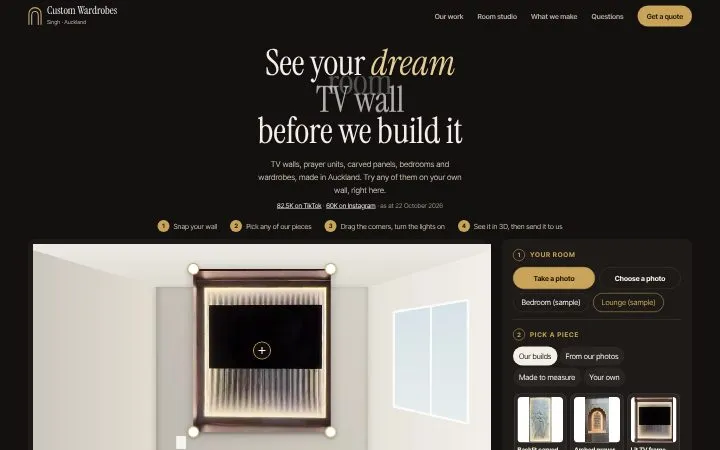
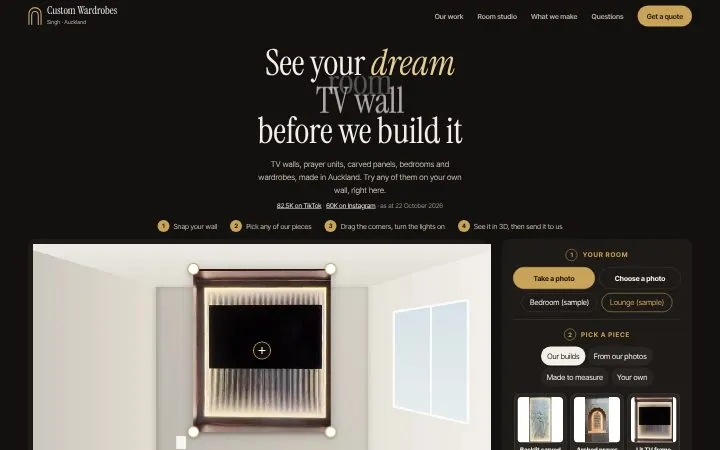
Room studio on phones: no overlapping text, pieces fit any photo, centred
- Only the picture stays pinned on phones, on a solid background; the
  lighting switch, View in 3D and piece names sit in their own row
  under it, so nothing shows through or sits on top of the panel
- New pieces always start fully inside the photo, tall or wide, at true
  proportions; 'Fit again' snaps a piece back to a good starting size
- Studio headings, rows, chips, notes and actions are centred
- Concept headers are solid, so nothing shows through them

Claude-Session: https://claude.ai/code/session_01WqnGcpj9xHEybvX22jA6rA

diff --git a/assets/studio.js b/assets/studio.js
@@ -75,18 +75,18 @@
   function mount(root) {
     root.classList.add("st");
     root.innerHTML =
-      '<div class="st-view"><div class="st-frame"><div class="st-stage" aria-label="Your room. Drag the round handles to fit the selected piece.">' +
+      '<div class="st-left"><div class="st-view"><div class="st-frame"><div class="st-stage" aria-label="Your room. Drag the round handles to fit the selected piece.">' +
       '<canvas class="st-base" aria-hidden="true"></canvas><canvas class="st-gl" aria-hidden="true"></canvas>' +
       '<button class="st-h" type="button" aria-label="Top left corner of the selected piece. Use the arrow keys to move it."></button>' +
       '<button class="st-h" type="button" aria-label="Top right corner of the selected piece. Use the arrow keys to move it."></button>' +
       '<button class="st-h" type="button" aria-label="Bottom right corner of the selected piece. Use the arrow keys to move it."></button>' +
       '<button class="st-h" type="button" aria-label="Bottom left corner of the selected piece. Use the arrow keys to move it."></button>' +
       '<button class="st-grip" type="button" aria-label="Move the selected piece. Drag it, or use the arrow keys."></button>' +
-      '</div></div>' +
-      '<div class="st-bar"><div class="st-lights" role="group" aria-label="Lighting">' +
+      '</div></div></div>' +
+      '<div class="st-under"><div class="st-bar"><div class="st-lights" role="group" aria-label="Lighting">' +
       '<button type="button" data-l="day" aria-pressed="true">Daylight</button><button type="button" data-l="on" aria-pressed="false">Lights on</button><button type="button" data-l="off" aria-pressed="false">Lights off</button></div>' +
       '<button type="button" class="st-btn st-3d" data-a="3d">View in 3D</button></div>' +
-      '<div class="st-layers" aria-label="Pieces in your room"></div><p class="st-status" role="status" aria-live="polite"></p></div>' +
+      '<div class="st-layers" aria-label="Pieces in your room"></div><p class="st-status" role="status" aria-live="polite"></p></div></div>' +
       '<div class="st-panel">' +
       '<section class="st-step"><h2><span>1</span>Your room</h2><div class="st-room">' +
       '<label class="st-btn st-primary st-file">Take a photo<input type="file" accept="image/*" capture="environment" aria-label="Take a photo of your room"></label>' +
@@ -103,6 +103,7 @@
       '<label>Warmth <input type="range" min="-100" max="100" value="0" data-k="warmth"></label>' +
       '<label>Shadow <input type="range" min="0" max="100" value="60" data-k="shadow"></label></div>' +
       '<div class="st-actions"><button class="st-btn" type="button" data-a="compare" aria-pressed="false">Hide pieces</button>' +
+      '<button class="st-btn" type="button" data-a="fit">Fit again</button>' +
       '<button class="st-btn" type="button" data-a="remove">Remove piece</button>' +
       '<button class="st-btn" type="button" data-a="save">Save image</button>' +
       '<button class="st-btn st-primary" type="button" data-a="ask">Ask about this</button></div></section>' +
@@ -197,7 +198,7 @@
     var cssW = 0, cssH = 0, raf = 0;
     function layout() {
       var maxW = stage.parentElement.clientWidth || 600;
-      var maxH = Math.max(220, innerHeight * (matchMedia("(max-width: 1080px)").matches ? 0.46 : 0.72));
+      var maxH = Math.max(200, innerHeight * (matchMedia("(max-width: 1080px)").matches ? 0.4 : 0.72));
       var ar = state.pw / state.ph;
       cssW = Math.min(maxW, maxH * ar); cssH = cssW / ar;
       stage.style.width = cssW + "px"; stage.style.height = cssH + "px";
@@ -239,12 +240,19 @@
       var wallTop = state.own ? 0.2 : state.room.wall[0][1], floor = state.own ? 0.8 : state.room.wall[3][1];
       var perMm = (floor - wallTop) / 2400, a = state.ph / state.pw, h, w;
       if (mm) { h = mm[1] * perMm; w = mm[0] * perMm * a; } else { h = (floor - wallTop) * 0.62; w = h * aspect * a; }
-      var maxW = state.own ? 0.85 : 0.72; if (w > maxW) { h *= maxW / w; w = maxW; }
+      // keep it inside the photo with a margin: at most 84% wide and 70% tall (true proportions kept)
+      var k = Math.min(1, 0.84 / w, 0.7 / h); w *= k; h *= k;
+      var bottom = Math.min(0.95, floor - (lift || 0) * perMm * k), top = bottom - h;
+      if (top < 0.05) { top = 0.05; bottom = top + h; }
       // small pieces start beside what is already there; wide ones start centred so they stay in frame
       var n = state.items.length, side = n && w < 0.4 ? (n % 2 ? -1 : 1) * Math.min(0.25, w / 2 + 0.06) : 0;
-      var bottom = floor - (lift || 0) * perMm, cx = 0.5 + side;
-      cx = Math.min(1 - w / 2, Math.max(w / 2, cx));
-      return [[cx - w / 2, bottom - h], [cx + w / 2, bottom - h], [cx + w / 2, bottom], [cx - w / 2, bottom]];
+      var cx = Math.min(1 - w / 2 - 0.03, Math.max(w / 2 + 0.03, 0.5 + side));
+      return [[cx - w / 2, top], [cx + w / 2, top], [cx + w / 2, bottom], [cx - w / 2, bottom]];
+    }
+    function fitAgain() {
+      var it = state.items[state.active]; if (!it) return;
+      it.quad = startQuad(it.design ? it.design.size(it.opts.count) : null, it.design && it.design.lift, it.aspect);
+      it.scale = 100; syncSliders(); schedule(); say(it.label + " fitted again. Drag the corners to fine-tune.");
     }
     function addItem(it) {
       if (state.items.length >= MAX_ITEMS) state.items.shift();
@@ -526,7 +534,7 @@
       var W = cutImg.naturalWidth, H = cutImg.naturalHeight;
       var flat = flatten(cutImg, cutQuad.map(function (p) { return [p[0] * W, p[1] * H]; }));
       closeCutter(); addCut(flat, cutLabel);
-      root.querySelector(".st-view").scrollIntoView({ block: "center" });
+      root.querySelector(".st-view").scrollIntoView({ block: "start" });
     });
     cut.addEventListener("keydown", function (e) { if (e.key === "Escape") closeCutter(); });
 
@@ -564,6 +572,7 @@
       compare.textContent = state.hide ? "Show pieces" : "Hide pieces"; schedule();
     });
     root.querySelector('[data-a="remove"]').addEventListener("click", removeActive);
+    root.querySelector('[data-a="fit"]').addEventListener("click", fitAgain);
     function describe() { return state.items.map(function (it) { return it.kind === "design" ? D.describe(it.design, it.opts) : it.label + " (cut from a photo)"; }).join("; "); }
     root.querySelector('[data-a="save"]').addEventListener("click", function () {
       var W = state.pw, H = state.ph, out = document.createElement("canvas"); out.width = W; out.height = H;

diff --git a/assets/studio.css b/assets/studio.css
@@ -9,7 +9,8 @@
 .st [hidden] { display: none !important; }
 .st button, .st input { font: inherit; color: inherit; }
 .st :focus-visible { outline: 2px solid var(--st-accent); outline-offset: 3px; }
-.st-view { position: sticky; top: calc(var(--header, 72px) + 12px); z-index: 3; min-width: 0; }
+.st-left { position: sticky; top: calc(var(--header, 72px) + 12px); z-index: 3; min-width: 0; }
+.st-view { min-width: 0; }
 .st-frame { display: grid; place-items: center; background: var(--st-bg); border-radius: var(--st-radius); padding: 10px; min-height: 240px; }
 .st-stage { position: relative; user-select: none; -webkit-user-select: none; max-width: 100%; }
 .st-stage canvas { position: absolute; inset: 0; width: 100%; height: 100%; }
@@ -18,12 +19,12 @@
 .st-h::before { content: ""; position: absolute; inset: 12px; border-radius: 50%; background: #fff; box-shadow: 0 0 0 2px var(--st-accent), 0 2px 8px rgba(0,0,0,.4); }
 .st-grip::before { content: ""; position: absolute; inset: 6px; border-radius: 50%; background: rgba(20,15,11,.8); box-shadow: 0 0 0 2px var(--st-accent); }
 .st-grip::after { content: ""; position: absolute; inset: 15px; background: linear-gradient(#fff, #fff) center / 2px 100% no-repeat, linear-gradient(#fff, #fff) center / 100% 2px no-repeat; }
-.st-bar { display: flex; flex-wrap: wrap; gap: 8px; align-items: center; justify-content: space-between; margin-top: 10px; }
+.st-bar { display: flex; flex-wrap: wrap; gap: 8px; align-items: center; justify-content: center; margin-top: 12px; }
 .st-lights { display: inline-flex; padding: 3px; border-radius: 999px; border: 1px solid var(--st-line); }
 .st-lights button { min-height: 38px; padding: 0 14px; border-radius: 999px; border: 0; background: none; cursor: pointer; font-size: 13px; font-weight: 700; color: var(--st-ink); }
 .st-lights button[aria-pressed="true"] { background: var(--st-accent); color: var(--st-accent-ink); }
 .st .st-3d { min-height: 42px; }
-.st-layers { display: flex; flex-wrap: wrap; gap: 6px; align-items: center; margin-top: 10px; min-height: 36px; }
+.st-layers { display: flex; flex-wrap: wrap; gap: 6px; align-items: center; justify-content: center; margin-top: 10px; min-height: 36px; }
 .st-layer { min-height: 36px; padding: 0 14px; border-radius: 999px; border: 1px solid var(--st-line); background: none; cursor: pointer; font-size: 13px; font-weight: 600; }
 .st-layer[aria-pressed="true"] { background: var(--st-accent); color: var(--st-accent-ink); border-color: var(--st-accent); }
 .st-layer-hint { font-size: 12px; color: var(--st-muted); }
@@ -86,7 +87,9 @@
 html.st-locked { overflow: hidden; }
 @media (max-width: 1080px) {
   .st { grid-template-columns: minmax(0, 1fr); }
-  .st-view { top: var(--header, 72px); background: inherit; }
+  /* on phones only the picture stays pinned, on a solid background, so nothing shows through it */
+  .st-left { display: contents; }
+  .st-view { position: sticky; top: var(--header, 72px); z-index: 4; background: var(--st-bg); padding: 6px 0; margin-inline: -6px; padding-inline: 6px; border-radius: 0 0 var(--st-radius) var(--st-radius); }
   .st-frame { padding: 6px; min-height: 0; }
   .st-status:empty { display: none; }
 }
@@ -114,3 +117,12 @@ html.st-locked { overflow: hidden; }
 .st3d-stage canvas { display: block; width: 100%; height: 100%; cursor: grab; }
 .st3d-note { margin: 0; padding: 8px 16px calc(10px + env(safe-area-inset-bottom)); font-size: 12px; color: #a99b88; text-align: center; }
 .st3d :focus-visible { outline: 2px solid #c9a35a; outline-offset: 3px; }
+
+/* centred, as the owner requires everywhere */
+.st-step h2 { justify-content: center; }
+.st-step h3, .st-tip, .st-note, .st-status { text-align: center; }
+.st-tabs, .st-row, .st-rooms { justify-content: center; }
+.st-count { justify-content: center; }
+.st-count h3 { text-align: center; }
+.st-actions .st-primary:last-child { grid-column: 1 / -1; }
+.st-card { text-align: center; justify-items: center; }

diff --git a/concepts/designs/01-after-dark/index.html b/concepts/designs/01-after-dark/index.html
@@ -13,7 +13,7 @@
 <link rel="preload" as="style" href="https://fonts.googleapis.com/css2?family=Bodoni+Moda:ital,opsz,wght@0,6..96,400;1,6..96,400&family=Inter:wght@400;500;600;700&display=optional" onload="this.onload=null;this.rel='stylesheet'">
 <noscript><link rel="stylesheet" href="https://fonts.googleapis.com/css2?family=Bodoni+Moda:ital,opsz,wght@0,6..96,400;1,6..96,400&family=Inter:wght@400;500;600;700&display=optional"></noscript>
 <link rel="stylesheet" href="/assets/cw-common.css?v=2">
-<link rel="stylesheet" href="/assets/studio.css?v=2">
+<link rel="stylesheet" href="/assets/studio.css?v=3">
 <script>(function(d){d.classList.add("js");window.CW_BASE="/";if(!matchMedia("(prefers-reduced-motion: reduce)").matches){d.classList.add("motion");setTimeout(function(){if(!window.CW_MOTION){d.classList.remove("motion");d.classList.add("motion-off");}},3000);}})(document.documentElement);</script>
 <style>
 
@@ -25,7 +25,7 @@ img,video{display:block;max-width:100%} a{color:inherit} :focus-visible{outline:
 h1,h2,h3{font-family:var(--serif);font-weight:400;margin:0;letter-spacing:-.01em}
 h2{font-size:clamp(34px,4.4vw,60px);line-height:1.05} .lede{color:var(--c-muted);max-width:56ch;margin:0 auto;font-size:clamp(16px,1.3vw,18px)}
 .sec-head{text-align:center;display:grid;gap:14px;margin-bottom:clamp(36px,5vw,64px)}
-.top{position:sticky;top:0;z-index:40;height:var(--header);background:rgba(10,8,7,.94);border-bottom:1px solid transparent}
+.top{position:sticky;top:0;z-index:40;height:var(--header);background:#0a0807;border-bottom:1px solid transparent}
 .top.scrolled{border-color:var(--c-line)} .top .wrap{height:100%;display:flex;align-items:center;justify-content:space-between;gap:16px}
 .brand{display:inline-flex;align-items:center;gap:12px;text-decoration:none}.brand b{display:block;font:400 21px/1 var(--serif)}.brand small{display:block;font-size:10.5px;letter-spacing:.18em;text-transform:uppercase;color:var(--c-muted);margin-top:6px}
 .nav{display:flex;align-items:center;gap:clamp(14px,2.2vw,32px)} .nav a{text-decoration:none;font-size:14px;font-weight:500;color:var(--c-muted)} .nav a:hover{color:var(--c-ink)}
@@ -241,7 +241,7 @@ ol.steps,ul.steps{justify-content:center}
 <script src="/assets/content.js?v=3"></script>
 <script src="/assets/projects.js?v=3"></script>
 <script src="/assets/designs.js?v=4" defer></script>
-<script src="/assets/studio.js?v=3" defer></script>
+<script src="/assets/studio.js?v=4" defer></script>
 <script src="/assets/cw-common.js?v=1" defer></script>
 <script src="/assets/cw-motion.js?v=1" defer></script>
 <script src="/concepts/assets/concepts.js?v=2" defer></script>

diff --git a/concepts/designs/04-atelier/index.html b/concepts/designs/04-atelier/index.html
@@ -13,7 +13,7 @@
 <link rel="preload" as="style" href="https://fonts.googleapis.com/css2?family=EB+Garamond:ital,wght@0,400;1,400&family=Jost:wght@400;500&display=swap" onload="this.onload=null;this.rel='stylesheet'">
 <noscript><link rel="stylesheet" href="https://fonts.googleapis.com/css2?family=EB+Garamond:ital,wght@0,400;1,400&family=Jost:wght@400;500&display=swap"></noscript>
 <link rel="stylesheet" href="/assets/cw-common.css?v=2">
-<link rel="stylesheet" href="/assets/studio.css?v=2">
+<link rel="stylesheet" href="/assets/studio.css?v=3">
 <script>(function(d){d.classList.add("js");window.CW_BASE="/";if(!matchMedia("(prefers-reduced-motion: reduce)").matches){d.classList.add("motion");setTimeout(function(){if(!window.CW_MOTION){d.classList.remove("motion");d.classList.add("motion-off");}},3000);}})(document.documentElement);</script>
 <style>
 
@@ -26,7 +26,7 @@ h1,h2,h3{font-family:var(--serif);font-weight:400;margin:0;letter-spacing:-.01em
 .lede{color:var(--c-muted);max-width:54ch;margin:0 auto;font-size:clamp(17px,1.35vw,19px)}
 .sec-head{text-align:center;display:grid;gap:14px;margin-bottom:clamp(36px,5vw,64px)}
 section{padding-block:clamp(80px,10vw,140px)}
-.top{position:sticky;top:0;z-index:40;height:var(--header);background:rgba(250,248,244,.97);border-bottom:1px solid var(--c-line)}
+.top{position:sticky;top:0;z-index:40;height:var(--header);background:#faf8f4;border-bottom:1px solid var(--c-line)}
 .top .wrap{height:100%;display:flex;align-items:center;justify-content:space-between;gap:16px}
 .brand{display:inline-flex;align-items:center;gap:12px;text-decoration:none}.brand b{display:block;font:400 24px/1 var(--serif)}.brand small{display:block;font-size:11px;letter-spacing:.2em;text-transform:uppercase;color:var(--c-muted);margin-top:6px}
 .nav{display:flex;align-items:center;gap:clamp(14px,2.4vw,36px)}.nav a{text-decoration:none;font-size:14px;letter-spacing:.06em;text-transform:uppercase;color:var(--c-muted)}.nav a:hover{color:var(--c-ink)}
@@ -226,7 +226,7 @@ ol.steps,ul.steps{justify-content:center}
 <script src="/assets/content.js?v=3"></script>
 <script src="/assets/projects.js?v=3"></script>
 <script src="/assets/designs.js?v=4" defer></script>
-<script src="/assets/studio.js?v=3" defer></script>
+<script src="/assets/studio.js?v=4" defer></script>
 <script src="/assets/cw-common.js?v=1" defer></script>
 <script src="/assets/cw-motion.js?v=1" defer></script>
 <script src="/concepts/assets/concepts.js?v=2" defer></script>

diff --git a/concepts/designs/03-reels/index.html b/concepts/designs/03-reels/index.html
@@ -14,7 +14,7 @@
 <noscript><link rel="stylesheet" href="https://fonts.googleapis.com/css2?family=Bricolage+Grotesque:opsz,wght@12..96,700&family=Inter:wght@400;600;700&display=swap"></noscript>
 <link rel="preload" as="image" href="/assets/video/hero-media-wall.webp" fetchpriority="high">
 <link rel="stylesheet" href="/assets/cw-common.css?v=2">
-<link rel="stylesheet" href="/assets/studio.css?v=2">
+<link rel="stylesheet" href="/assets/studio.css?v=3">
 <script>(function(d){d.classList.add("js");window.CW_BASE="/";if(!matchMedia("(prefers-reduced-motion: reduce)").matches){d.classList.add("motion");setTimeout(function(){if(!window.CW_MOTION){d.classList.remove("motion");d.classList.add("motion-off");}},3000);}})(document.documentElement);</script>
 <style>
 
@@ -27,7 +27,7 @@ h1,h2,h3{font-family:var(--serif);font-weight:700;margin:0;letter-spacing:-.03em
 .lede{color:var(--c-muted);max-width:52ch;margin:0 auto;font-size:clamp(16px,1.3vw,18px)}
 .sec-head{text-align:center;display:grid;gap:14px;margin-bottom:clamp(32px,5vw,56px)}
 section{padding-block:clamp(72px,10vw,130px)}
-.top{position:sticky;top:0;z-index:40;height:var(--header);background:rgba(13,13,15,.95);border-bottom:1px solid var(--c-line)}
+.top{position:sticky;top:0;z-index:40;height:var(--header);background:#0d0d0f;border-bottom:1px solid var(--c-line)}
 .top .wrap{height:100%;display:flex;align-items:center;justify-content:space-between;gap:16px}
 .brand{display:inline-flex;align-items:center;gap:10px;text-decoration:none}.brand b{display:block;font:700 19px/1 var(--serif);letter-spacing:-.02em}.brand small{display:block;font-size:11px;color:var(--c-muted);margin-top:5px}
 .nav{display:flex;align-items:center;gap:clamp(14px,2vw,28px)}.nav a{text-decoration:none;font-size:14px;font-weight:600;color:var(--c-muted)}.nav a:hover{color:#fff}
@@ -224,7 +224,7 @@ ol.steps,ul.steps{justify-content:center}
 <script src="/assets/content.js?v=3"></script>
 <script src="/assets/projects.js?v=3"></script>
 <script src="/assets/designs.js?v=4" defer></script>
-<script src="/assets/studio.js?v=3" defer></script>
+<script src="/assets/studio.js?v=4" defer></script>
 <script src="/assets/cw-common.js?v=1" defer></script>
 <script src="/assets/cw-motion.js?v=1" defer></script>
 <script src="/concepts/assets/concepts.js?v=2" defer></script>

diff --git a/concepts/designs/02-arch/index.html b/concepts/designs/02-arch/index.html
@@ -13,7 +13,7 @@
 <link rel="preload" as="style" href="https://fonts.googleapis.com/css2?family=Manrope:wght@400;600;700&family=Newsreader:ital,opsz,wght@0,6..72,400;1,6..72,400&display=swap" onload="this.onload=null;this.rel='stylesheet'">
 <noscript><link rel="stylesheet" href="https://fonts.googleapis.com/css2?family=Manrope:wght@400;600;700&family=Newsreader:ital,opsz,wght@0,6..72,400;1,6..72,400&display=swap"></noscript>
 <link rel="stylesheet" href="/assets/cw-common.css?v=2">
-<link rel="stylesheet" href="/assets/studio.css?v=2">
+<link rel="stylesheet" href="/assets/studio.css?v=3">
 <script>(function(d){d.classList.add("js");window.CW_BASE="/";if(!matchMedia("(prefers-reduced-motion: reduce)").matches){d.classList.add("motion");setTimeout(function(){if(!window.CW_MOTION){d.classList.remove("motion");d.classList.add("motion-off");}},3000);}})(document.documentElement);</script>
 <style>
 
@@ -224,7 +224,7 @@ ol.steps,ul.steps{justify-content:center}
 <script src="/assets/content.js?v=3"></script>
 <script src="/assets/projects.js?v=3"></script>
 <script src="/assets/designs.js?v=4" defer></script>
-<script src="/assets/studio.js?v=3" defer></script>
+<script src="/assets/studio.js?v=4" defer></script>
 <script src="/assets/cw-common.js?v=1" defer></script>
 <script src="/assets/cw-motion.js?v=1" defer></script>
 <script src="/concepts/assets/concepts.js?v=2" defer></script>

diff --git a/concepts/designs/05-studio/index.html b/concepts/designs/05-studio/index.html
@@ -13,7 +13,7 @@
 <link rel="preload" as="style" href="https://fonts.googleapis.com/css2?family=Instrument+Serif:ital@0;1&family=Inter+Tight:wght@400;600;700&display=swap" onload="this.onload=null;this.rel='stylesheet'">
 <noscript><link rel="stylesheet" href="https://fonts.googleapis.com/css2?family=Instrument+Serif:ital@0;1&family=Inter+Tight:wght@400;600;700&display=swap"></noscript>
 <link rel="stylesheet" href="/assets/cw-common.css?v=2">
-<link rel="stylesheet" href="/assets/studio.css?v=2">
+<link rel="stylesheet" href="/assets/studio.css?v=3">
 <script>(function(d){d.classList.add("js");window.CW_BASE="/";if(!matchMedia("(prefers-reduced-motion: reduce)").matches){d.classList.add("motion");setTimeout(function(){if(!window.CW_MOTION){d.classList.remove("motion");d.classList.add("motion-off");}},3000);}})(document.documentElement);</script>
 <style>
 
@@ -196,7 +196,7 @@ ol.steps,ul.steps{justify-content:center}
 <script src="/assets/content.js?v=3"></script>
 <script src="/assets/projects.js?v=3"></script>
 <script src="/assets/designs.js?v=4" defer></script>
-<script src="/assets/studio.js?v=3" defer></script>
+<script src="/assets/studio.js?v=4" defer></script>
 <script src="/assets/cw-common.js?v=1" defer></script>
 <script src="/assets/cw-motion.js?v=1" defer></script>
 <script src="/concepts/assets/concepts.js?v=2" defer></script>

diff --git a/concepts/tools/build.py b/concepts/tools/build.py
@@ -85,7 +85,7 @@ def head(c, css, preload=""):
 <link rel="preload" as="style" href="{c['fonts']}" onload="this.onload=null;this.rel='stylesheet'">
 <noscript><link rel="stylesheet" href="{c['fonts']}"></noscript>
 {preload}<link rel="stylesheet" href="{B}assets/cw-common.css?v=2">
-<link rel="stylesheet" href="{B}assets/studio.css?v=2">
+<link rel="stylesheet" href="{B}assets/studio.css?v=3">
 <script>(function(d){{d.classList.add("js");window.CW_BASE="{B}";if(!matchMedia("(prefers-reduced-motion: reduce)").matches){{d.classList.add("motion");setTimeout(function(){{if(!window.CW_MOTION){{d.classList.remove("motion");d.classList.add("motion-off");}}}},3000);}}}})(document.documentElement);</script>
 <style>
 {css}
@@ -195,7 +195,7 @@ def footer(cls="foot", ink="#f5f0e7"):
 SCRIPTS = f"""<script src="{B}assets/content.js?v=3"></script>
 <script src="{B}assets/projects.js?v=3"></script>
 <script src="{B}assets/designs.js?v=4" defer></script>
-<script src="{B}assets/studio.js?v=3" defer></script>
+<script src="{B}assets/studio.js?v=4" defer></script>
 <script src="{B}assets/cw-common.js?v=1" defer></script>
 <script src="{B}assets/cw-motion.js?v=1" defer></script>
 <script src="/concepts/assets/concepts.js?v=2" defer></script>
@@ -237,7 +237,7 @@ img,video{display:block;max-width:100%} a{color:inherit} :focus-visible{outline:
 h1,h2,h3{font-family:var(--serif);font-weight:400;margin:0;letter-spacing:-.01em}
 h2{font-size:clamp(34px,4.4vw,60px);line-height:1.05} .lede{color:var(--c-muted);max-width:56ch;margin:0 auto;font-size:clamp(16px,1.3vw,18px)}
 .sec-head{text-align:center;display:grid;gap:14px;margin-bottom:clamp(36px,5vw,64px)}
-.top{position:sticky;top:0;z-index:40;height:var(--header);background:rgba(10,8,7,.94);border-bottom:1px solid transparent}
+.top{position:sticky;top:0;z-index:40;height:var(--header);background:#0a0807;border-bottom:1px solid transparent}
 .top.scrolled{border-color:var(--c-line)} .top .wrap{height:100%;display:flex;align-items:center;justify-content:space-between;gap:16px}
 .brand{display:inline-flex;align-items:center;gap:12px;text-decoration:none}.brand b{display:block;font:400 21px/1 var(--serif)}.brand small{display:block;font-size:10.5px;letter-spacing:.18em;text-transform:uppercase;color:var(--c-muted);margin-top:6px}
 .nav{display:flex;align-items:center;gap:clamp(14px,2.2vw,32px)} .nav a{text-decoration:none;font-size:14px;font-weight:500;color:var(--c-muted)} .nav a:hover{color:var(--c-ink)}
@@ -534,7 +534,7 @@ h1,h2,h3{font-family:var(--serif);font-weight:700;margin:0;letter-spacing:-.03em
 .lede{color:var(--c-muted);max-width:52ch;margin:0 auto;font-size:clamp(16px,1.3vw,18px)}
 .sec-head{text-align:center;display:grid;gap:14px;margin-bottom:clamp(32px,5vw,56px)}
 section{padding-block:clamp(72px,10vw,130px)}
-.top{position:sticky;top:0;z-index:40;height:var(--header);background:rgba(13,13,15,.95);border-bottom:1px solid var(--c-line)}
+.top{position:sticky;top:0;z-index:40;height:var(--header);background:#0d0d0f;border-bottom:1px solid var(--c-line)}
 .top .wrap{height:100%;display:flex;align-items:center;justify-content:space-between;gap:16px}
 .brand{display:inline-flex;align-items:center;gap:10px;text-decoration:none}.brand b{display:block;font:700 19px/1 var(--serif);letter-spacing:-.02em}.brand small{display:block;font-size:11px;color:var(--c-muted);margin-top:5px}
 .nav{display:flex;align-items:center;gap:clamp(14px,2vw,28px)}.nav a{text-decoration:none;font-size:14px;font-weight:600;color:var(--c-muted)}.nav a:hover{color:#fff}
@@ -659,7 +659,7 @@ h1,h2,h3{font-family:var(--serif);font-weight:400;margin:0;letter-spacing:-.01em
 .lede{color:var(--c-muted);max-width:54ch;margin:0 auto;font-size:clamp(17px,1.35vw,19px)}
 .sec-head{text-align:center;display:grid;gap:14px;margin-bottom:clamp(36px,5vw,64px)}
 section{padding-block:clamp(80px,10vw,140px)}
-.top{position:sticky;top:0;z-index:40;height:var(--header);background:rgba(250,248,244,.97);border-bottom:1px solid var(--c-line)}
+.top{position:sticky;top:0;z-index:40;height:var(--header);background:#faf8f4;border-bottom:1px solid var(--c-line)}
 .top .wrap{height:100%;display:flex;align-items:center;justify-content:space-between;gap:16px}
 .brand{display:inline-flex;align-items:center;gap:12px;text-decoration:none}.brand b{display:block;font:400 24px/1 var(--serif)}.brand small{display:block;font-size:11px;letter-spacing:.2em;text-transform:uppercase;color:var(--c-muted);margin-top:6px}
 .nav{display:flex;align-items:center;gap:clamp(14px,2.4vw,36px)}.nav a{text-decoration:none;font-size:14px;letter-spacing:.06em;text-transform:uppercase;color:var(--c-muted)}.nav a:hover{color:var(--c-ink)}
